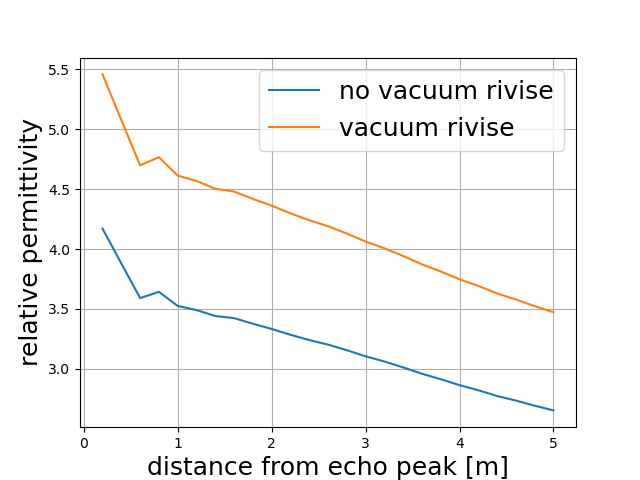
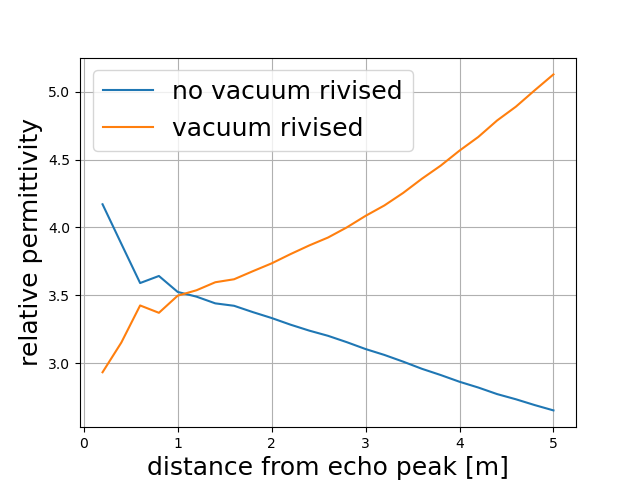
identifyed　permittibity　in　4region

diff --git a/kanda/domain_20x10/4region/B-scan/identigy_permittivity.py b/kanda/domain_20x10/4region/B-scan/identigy_permittivity.py
@@ -1,3 +1,5 @@
+import time
+
 import matplotlib.pyplot as plt
 import numpy as np
 
@@ -22,11 +24,24 @@ index = np.zeros(len(time_array))
 
 for i in range(len(time_array)):
 
-    l = (i + 1) * 0.2 # [m]
-    index[i] = l
+    L = (i + 1) * 0.2 # [m]
+    index[i] = L
 
-    epsilon_r1[i] = ((time_array[i]) **2 - (rx40_time)**2) * (c /2 /l)**2 
-    epsilon_r2[i] = (c**4 * rx40_time**2)*(time_array[i](1 - 2/c/rx40_time))**2 - (rx40_time-2/c)**2 / ((2 * l * (c * rx40_time - 2))**2)
+    # 
+    epsilon_r1[i] = ((time_array[i]) **2 - (rx40_time)**2) * (c /2 /L)**2 
+
+    #tau1 = time_array[i]*(1 - 2/c/rx40_time) # 
+    #tau0 = rx40_time - 2/c
+    #epsilon_r2[i] = (c**4 * rx40_time**2)*(tau1**2 - tau0**2) / ((2 * l * (c * rx40_time - 2))**2)
+
+    #
+    time_1m = 2/c
+    time_perp = rx40_time - time_1m # A
+    time_oblique_vacuum = time_1m * time_array[i] / rx40_time # tau1'
+    time_oblique_ground = time_array[i] - time_oblique_vacuum # B
+
+    v_ground = 2 * L /np.sqrt(time_oblique_ground**2 - time_perp**2) - c * time_array[i] / time_oblique_ground
+    epsilon_r2[i] = (c / v_ground)**2
 
 
 plt.plot(index, epsilon_r1, label='no vacuum rivised')
